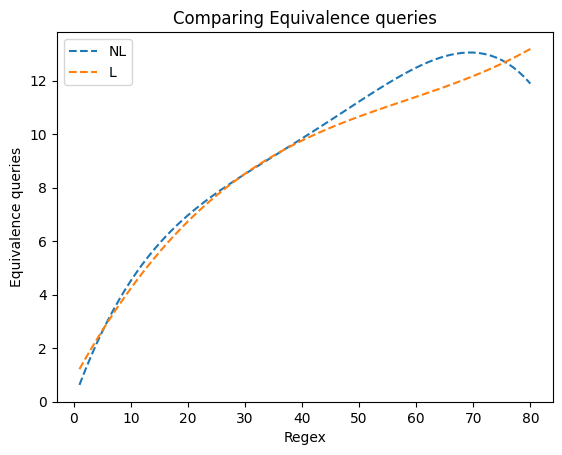
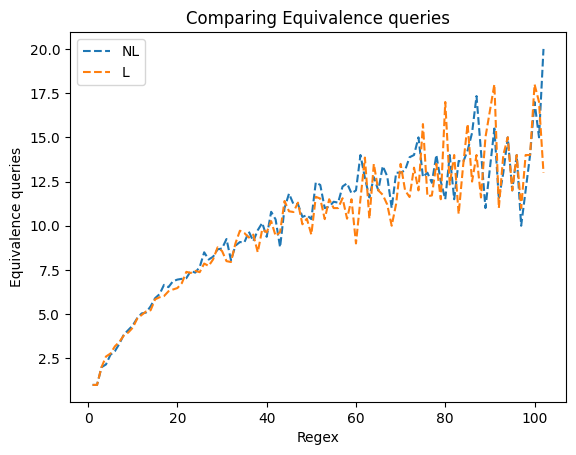
Added new benchmark

diff --git a/dist/Main.js b/dist/Main.js
@@ -1,2 +1,2 @@
-import{teachers}from"./teacher/Teacher.js";import{HTML_L_star}from"./html_interactions/HTML_L_star.js";import{HTML_NL_star}from"./html_interactions/HTML_NL_star.js";import{Automaton}from"./automaton/Automaton.js";import{L_star}from"./learners/L_star.js";import{NL_star}from"./learners/NL_star.js";import*as autFunction from"./automaton/automaton_type.js";import{TeacherAutomaton}from"./teacher/TeacherAutomaton.js";export let automatonDiv,automatonHTML,automatonDivList=[],historyHTML=[],historyPosition=0,backupCenterDiv=document.getElementById("centerDiv").cloneNode(true);export function centerDivClone(){return backupCenterDiv.cloneNode(true)}export function initiate_global_vars(){automatonHTML=$("#automaton-mermaid")[0];automatonDiv=$("#input-automaton")[0];historyHTML.push([document.getElementById("centerDiv").cloneNode(true),undefined]);document.getElementById("leftCol").onclick=goBackward;document.getElementById("rightCol").onclick=goForeward;document.onkeydown=key=>{const LEFT=37,RIGHT=39;switch(key.keyCode){case LEFT:goBackward();break;case RIGHT:goForeward();break;}};let current_automaton,teacherSelector=$("#teacher-switch")[0],algoSelector=Array.from($(".algo-switch")),mapTeacherValue={},counter=0,currentTeacher=teachers[0],newRegex=$("#input-regex")[0],newRegexSendButton=$("#button-regex")[0];let changeTeacherOrAlgo=()=>{document.getElementById("centerDiv").replaceWith(centerDivClone());current_automaton=algoSelector[0].checked?new HTML_L_star(currentTeacher):new HTML_NL_star(currentTeacher);$("#teacher_description")[0].innerHTML=current_automaton.learner.teacher.description;console.log("The description is ",current_automaton.learner.teacher.description);clearHistory()};let createRadioTeacher=teacher=>{let newTeacherHtml=document.createElement("option");newTeacherHtml.value=counter+"";newTeacherHtml.text=teacher.regex;mapTeacherValue[""+counter++]=teacher;teacherSelector.appendChild(newTeacherHtml);return newTeacherHtml};changeTeacherOrAlgo();teacherSelector.onchange=()=>{currentTeacher=mapTeacherValue[teacherSelector.selectedOptions[0].value];changeTeacherOrAlgo()};algoSelector.forEach(as=>as.onclick=()=>changeTeacherOrAlgo());teachers.forEach(teacher=>createRadioTeacher(teacher));$("#next_step")[0].addEventListener("click",()=>current_automaton.next_step());$("#go_to_end")[0].addEventListener("click",()=>current_automaton.go_to_end());newRegexSendButton.addEventListener("click",()=>{let regexAlreadyExists=Array.from($("#teacher-switch option")).find(e=>e.text==newRegex.value);let newTeacherOption;if(regexAlreadyExists){newTeacherOption=regexAlreadyExists}else{currentTeacher=new TeacherAutomaton(newRegex.value,`My automaton with regex = (${newRegex.value})`);newTeacherOption=createRadioTeacher(currentTeacher)}newTeacherOption.selected=true;changeTeacherOrAlgo()})}function toggleArrowLeft(toDisplay){if(toDisplay)document.getElementById("leftCol")?.classList.remove("hide");else document.getElementById("leftCol")?.classList.add("hide")}function toggleArrowRight(toDisplay){if(toDisplay)document.getElementById("rightCol")?.classList.remove("hide");else document.getElementById("rightCol")?.classList.add("hide")}export function addHistoryElement(automaton){historyHTML.push([document.getElementById("centerDiv").cloneNode(true),automaton]);historyPosition=historyHTML.length-1;toggleArrowRight(false);toggleArrowLeft(true)}function changeMainDivContent(){let historyHead=Array.from(historyHTML[historyPosition][0].getElementsByClassName("head"));let currentHead=Array.from(document.getElementsByClassName("head"));historyHead.forEach((e,pos)=>{if(currentHead[pos].classList.contains("up"))e.classList.add("up");else e.classList.remove("up")});document.getElementById("centerDiv").innerHTML=historyHTML[historyPosition][0].innerHTML}function clearHistory(){historyHTML=[];toggleArrowLeft(false);toggleArrowRight(false);clear_automaton_HTML()}export function goForeward(){let lengthHistory=historyHTML.length;if(historyPosition+1<lengthHistory){historyPosition++;changeMainDivContent();toggleArrowLeft(true)}else{toggleArrowRight(false)}}export function goBackward(){if(historyPosition>0){historyPosition--;changeMainDivContent();toggleArrowRight(true)}else{toggleArrowLeft(false)}}export function clear_table(){document.getElementById("table").innerHTML="";document.getElementById("table").innerHTML=""}export function clear_automaton_HTML(){document.getElementsByClassName("mermaidTooltip")[0]?.remove();document.getElementById("automatonHead")?.classList.add("up");automatonDiv.innerHTML="";automatonHTML.innerHTML=""}try{process==undefined}catch(e){window.onload=function(){initiate_global_vars()};window.Automaton=Automaton;window.teachers=teachers;window.L_star=L_star;window.NL_star=NL_star;window.autFunction=autFunction;window.automatonDivList=automatonDivList;window.historyHTML=historyHTML;window.historyPosition=historyPosition}
+import{teachers}from"./teacher/Teacher.js";import{HTML_L_star}from"./html_interactions/HTML_L_star.js";import{HTML_NL_star}from"./html_interactions/HTML_NL_star.js";import{Automaton}from"./automaton/Automaton.js";import{L_star}from"./learners/L_star.js";import{NL_star}from"./learners/NL_star.js";import*as autFunction from"./automaton/automaton_type.js";import{TeacherAutomaton}from"./teacher/TeacherAutomaton.js";export let automatonDiv,automatonHTML,automatonDivList=[],historyHTML=[],historyPosition=0,backupCenterDiv=document.getElementById("centerDiv").cloneNode(true);export function centerDivClone(){return backupCenterDiv.cloneNode(true)}export function initiate_global_vars(){automatonHTML=$("#automaton-mermaid")[0];automatonDiv=$("#input-automaton")[0];historyHTML.push([document.getElementById("centerDiv").cloneNode(true),undefined]);document.getElementById("leftCol").onclick=goBackward;document.getElementById("rightCol").onclick=goForeward;document.onkeydown=key=>{const LEFT=37,RIGHT=39;switch(key.keyCode){case LEFT:goBackward();break;case RIGHT:goForeward();break;}};let current_automaton,teacherSelector=$("#teacher-switch")[0],algoSelector=Array.from($(".algo-switch")),mapTeacherValue={},counter=0,currentTeacher=teachers[0],newRegex=$("#input-regex")[0],newRegexSendButton=$("#button-regex")[0];let changeTeacherOrAlgo=()=>{document.getElementById("centerDiv").replaceWith(centerDivClone());current_automaton=algoSelector[0].checked?new HTML_L_star(currentTeacher):new HTML_NL_star(currentTeacher);$("#teacher_description")[0].innerHTML=current_automaton.learner.teacher.description;console.log("The description is ",current_automaton.learner.teacher.description);clearHistory()};let createRadioTeacher=teacher=>{let newTeacherHtml=document.createElement("option");newTeacherHtml.value=counter+"";newTeacherHtml.text=teacher.regex;mapTeacherValue[""+counter++]=teacher;teacherSelector.appendChild(newTeacherHtml);return newTeacherHtml};changeTeacherOrAlgo();teacherSelector.onchange=()=>{currentTeacher=mapTeacherValue[teacherSelector.selectedOptions[0].value];changeTeacherOrAlgo()};algoSelector.forEach(as=>as.onclick=()=>changeTeacherOrAlgo());teachers.forEach(teacher=>createRadioTeacher(teacher));$("#next_step")[0].addEventListener("click",()=>current_automaton.next_step());$("#go_to_end")[0].addEventListener("click",()=>current_automaton.go_to_end());newRegexSendButton.addEventListener("click",()=>{let regexAlreadyExists=Array.from($("#teacher-switch option")).find(e=>e.text==newRegex.value);let newTeacherOption;if(regexAlreadyExists){newTeacherOption=regexAlreadyExists}else{currentTeacher=new TeacherAutomaton(newRegex.value,`My automaton with regex = (${newRegex.value})`);newTeacherOption=createRadioTeacher(currentTeacher)}newTeacherOption.selected=true;changeTeacherOrAlgo()})}function toggleArrowLeft(toDisplay){if(toDisplay)document.getElementById("leftCol")?.classList.remove("hide");else document.getElementById("leftCol")?.classList.add("hide")}function toggleArrowRight(toDisplay){if(toDisplay)document.getElementById("rightCol")?.classList.remove("hide");else document.getElementById("rightCol")?.classList.add("hide")}export function addHistoryElement(automaton){historyHTML.push([document.getElementById("centerDiv").cloneNode(true),automaton]);historyPosition=historyHTML.length-1;toggleArrowRight(false);toggleArrowLeft(true)}function changeMainDivContent(){let historyHead=Array.from(historyHTML[historyPosition][0].getElementsByClassName("head"));let currentHead=Array.from(document.getElementsByClassName("head"));historyHead.forEach((e,pos)=>{if(currentHead[pos].classList.contains("up"))e.classList.add("up");else e.classList.remove("up")});document.getElementById("centerDiv").innerHTML=historyHTML[historyPosition][0].innerHTML;window.automaton=historyHTML[historyPosition][1]}function clearHistory(){historyHTML=[];toggleArrowLeft(false);toggleArrowRight(false);clear_automaton_HTML()}export function goForeward(){let lengthHistory=historyHTML.length;if(historyPosition+1<lengthHistory){historyPosition++;changeMainDivContent();toggleArrowLeft(true)}else{toggleArrowRight(false)}}export function goBackward(){if(historyPosition>0){historyPosition--;changeMainDivContent();toggleArrowRight(true)}else{toggleArrowLeft(false)}}export function clear_table(){document.getElementById("table").innerHTML="";document.getElementById("table").innerHTML=""}export function clear_automaton_HTML(){document.getElementsByClassName("mermaidTooltip")[0]?.remove();document.getElementById("automatonHead")?.classList.add("up");automatonDiv.innerHTML="";automatonHTML.innerHTML=""}try{process==undefined}catch(e){window.onload=function(){initiate_global_vars()};window.Automaton=Automaton;window.teachers=teachers;window.L_star=L_star;window.NL_star=NL_star;window.autFunction=autFunction;window.automatonDivList=automatonDivList;window.historyHTML=historyHTML;window.historyPosition=historyPosition}
 //# sourceMappingURL=Main.js.map

diff --git a/dist/test_nodejs/CompareBenchMark.js b/dist/test_nodejs/CompareBenchMark.js
@@ -1,2 +1,2 @@
-import{readdirSync,readFileSync}from"fs";import{clearFile,csvHead,printCsvCompare,printInfo,writeToFile}from"./PrintFunction.js";import{TeacherTakingAut}from"../teacher/TeacherTakingAut.js";import{L_star}from"../learners/L_star.js";import{NL_star}from"../learners/NL_star.js";import{Automaton}from"../automaton/Automaton.js";let benchMark=true;let path="./statistics/"+(benchMark?"benchMark/":"automata/"),fileName=benchMark?"benchMark":"randomAutomata",files=readdirSync(path),automata=[],toWrite=true;let l=["1.5-0.1/A13.ba","1.5-0.1/A17.ba","1.5-0.1/A19.ba","1.5-0.1/A2.ba","1.5-0.1/A27.ba","1.5-0.1/A3.ba","1.5-0.1/A37.ba","1.5-0.1/A42.ba","1.5-0.1/A44.ba","1.5-0.1/A58.ba","1.5-0.1/A7.ba","1.5-0.1/A79.ba","1.5-0.1/A80.ba","1.5-0.1/A82.ba","1.5-0.1/A85.ba","1.5-0.1/A93.ba","1.5-0.1/A99.ba","1.5-0.1/B12.ba","1.5-0.1/B18.ba","1.5-0.1/B23.ba","1.5-0.1/B29.ba","1.5-0.1/B37.ba","1.5-0.1/B48.ba","1.5-0.1/B49.ba","1.5-0.1/B5.ba","1.5-0.1/B58.ba","1.5-0.1/B60.ba","1.5-0.1/B71.ba","1.5-0.1/B80.ba","1.5-0.1/B9.ba","1.5-0.2/A14.ba","1.5-0.2/A17.ba","1.5-0.2/A2.ba","1.5-0.2/A42.ba","1.5-0.2/A73.ba","1.5-0.2/A89.ba","1.5-0.2/A9.ba","1.5-0.2/B15.ba","1.5-0.2/B21.ba","1.5-0.2/B30.ba","1.5-0.2/B42.ba","1.5-0.2/B48.ba","1.5-0.2/B53.ba","1.5-0.2/B59.ba","1.5-0.2/B60.ba","1.5-0.2/B71.ba","1.5-0.2/B81.ba","1.5-0.2/B84.ba","1.5-0.2/B92.ba","1.5-0.2/B99.ba","1.5-0.3/A36.ba","1.5-0.3/A45.ba","1.5-0.3/A5.ba","1.5-0.3/A52.ba","1.5-0.3/A62.ba","1.5-0.3/A64.ba","1.5-0.3/A77.ba","1.5-0.3/A89.ba","1.5-0.3/B57.ba","1.5-0.4/A11.ba","1.5-0.4/A45.ba","1.5-0.4/A50.ba","1.5-0.4/A53.ba","1.5-0.4/A65.ba","1.5-0.4/A68.ba","1.5-0.4/A95.ba","1.5-0.4/B25.ba","1.5-0.5/A19.ba","1.5-0.5/A2.ba","1.5-0.5/A4.ba","1.5-0.5/A69.ba","1.5-0.5/A96.ba","1.5-0.5/B20.ba","1.5-0.5/B23.ba","1.5-0.5/B55.ba","1.5-0.5/B79.ba","1.5-0.5/B91.ba","1.5-0.6/A5.ba","1.5-0.6/A69.ba","1.5-0.6/B19.ba","1.5-0.6/B89.ba","1.5-0.6/B97.ba","1.5-0.7/A40.ba","1.5-0.7/A59.ba","1.5-0.7/A64.ba","1.5-0.7/A72.ba","1.5-0.7/A91.ba","1.5-0.7/B50.ba","1.5-0.7/B73.ba","1.5-0.7/B90.ba","1.5-0.8/A42.ba","1.5-0.8/A57.ba","1.5-0.8/A88.ba","1.5-0.8/B54.ba","1.5-0.9/A36.ba","1.5-0.9/A40.ba","1.5-0.9/B16.ba","1.5-0.9/B43.ba","1.5-0.9/B82.ba","1.5-1/B86.ba"];for(const underFolder of files){console.log(underFolder);let newPath=path+underFolder+"/";let files=readdirSync(newPath);for(const file of files){if(!l.includes(underFolder+"/"+file))continue;if(!file.endsWith(".ba"))continue;console.log("=".repeat(90));console.error("Creating automaton of file",underFolder+"/"+file);console.log("Creating automaton of file",underFolder+"/"+file);let content=readFileSync(newPath+file).toString();let automaton=Automaton.strToAutomaton(content);let teacher=new TeacherTakingAut({automaton:automaton,regex:underFolder+"/"+file});if(teacher.automaton.state_number()<81)continue;automata.push([teacher,underFolder+"/"+file]);teacher.description=teacher.automaton.state_number()+""}}console.log(automata.map(e=>e[1]));console.log("=".repeat(90));console.log("Automata created the ordered list of states is :");automata.sort((a,b)=>a[0].automaton.state_number()-b[0].automaton.state_number());automata.forEach(a=>console.log(a[0].automaton.state_number()));if(toWrite){clearFile(fileName);writeToFile(fileName,csvHead)}for(let index=0;index<automata.length;index++){const[teacher,file]=automata[index];let L=new L_star(teacher),NL=new NL_star(teacher);console.log("=".repeat(90));console.error(file,"Current benchmark :",index,"/",automata.length,"With state number",teacher.automaton.state_number());console.log(file,"Current benchmark :",index,"/",automata.length,"With state number",teacher.automaton.state_number());console.log("In L*");L.make_all_queries();console.log(printInfo(L,"L*"));console.log("-".repeat(80));console.log("In NL*");NL.make_all_queries();console.log(printInfo(NL,"NL*"));console.log(printCsvCompare(L,NL));if(toWrite)writeToFile(fileName,printCsvCompare(L,NL))}
+import{readdirSync,readFileSync}from"fs";import{clearFile,csvHead,printCsvCompare,printInfo,writeToFile}from"./PrintFunction.js";import{TeacherTakingAut}from"../teacher/TeacherTakingAut.js";import{L_star}from"../learners/L_star.js";import{NL_star}from"../learners/NL_star.js";import{Automaton}from"../automaton/Automaton.js";let benchMark=true;let path="./statistics/"+(benchMark?"benchMark/":"automata/"),fileName=benchMark?"benchMark":"randomAutomata",files=readdirSync(path),automata=[],toWrite=true;let l=["1.5-0.1/A13.ba","1.5-0.1/A17.ba","1.5-0.1/A19.ba","1.5-0.1/A2.ba","1.5-0.1/A37.ba","1.5-0.1/A42.ba","1.5-0.1/A44.ba","1.5-0.1/A58.ba","1.5-0.1/A7.ba","1.5-0.1/A82.ba","1.5-0.1/A85.ba","1.5-0.1/A93.ba","1.5-0.1/A99.ba","1.5-0.1/B12.ba","1.5-0.1/B18.ba","1.5-0.1/B23.ba","1.5-0.1/B37.ba","1.5-0.1/B48.ba","1.5-0.1/B49.ba","1.5-0.1/B5.ba","1.5-0.1/B58.ba","1.5-0.1/B60.ba","1.5-0.1/B71.ba","1.5-0.1/B80.ba","1.5-0.1/B9.ba","1.5-0.2/A2.ba","1.5-0.2/A42.ba","1.5-0.2/A89.ba","1.5-0.2/A9.ba","1.5-0.2/B15.ba","1.5-0.2/B30.ba","1.5-0.2/B48.ba","1.5-0.2/B53.ba","1.5-0.2/B59.ba","1.5-0.2/B71.ba","1.5-0.2/B81.ba","1.5-0.2/B92.ba","1.5-0.3/A36.ba","1.5-0.3/A5.ba","1.5-0.3/A52.ba","1.5-0.4/A50.ba","1.5-0.4/A53.ba","1.5-0.4/A65.ba","","1.5-0.5/A2.ba","1.5-0.5/A4.ba","1.5-0.5/A69.ba","1.5-0.5/A96.ba","1.5-0.5/B20.ba","1.5-0.5/B79.ba","1.5-0.5/B91.ba","1.5-0.6/A5.ba","1.5-0.6/B89.ba","1.5-0.6/B97.ba","1.5-0.7/A40.ba","1.5-0.7/A64.ba","1.5-0.7/B50.ba","1.5-0.7/B73.ba","1.5-0.8/A42.ba","1.5-0.8/A88.ba","1.5-0.8/B54.ba","1.5-0.9/A40.ba","1.5-0.9/B16.ba","1.5-1/B86.ba"];let minStateNb=102;for(const underFolder of files){console.log(underFolder);if(!l.includes(underFolder))continue;let newPath=path+underFolder+"/";let files=readdirSync(newPath);for(const file of files){if(!l.includes(underFolder+"/"+file))continue;if(!file.endsWith(".ba"))continue;console.log("=".repeat(90));console.error("Creating automaton of file",underFolder+"/"+file);console.log("Creating automaton of file",underFolder+"/"+file);let content=readFileSync(newPath+file).toString();let automaton=Automaton.strToAutomaton(content);let teacher=new TeacherTakingAut({automaton:automaton,regex:underFolder+"/"+file});if(teacher.automaton.state_number()<minStateNb)continue;automata.push([teacher,underFolder+"/"+file]);teacher.description=teacher.automaton.state_number()+""}}console.log(automata.map(e=>e[1]));console.log("=".repeat(90));console.log("Automata created the ordered list of states is :");automata.sort((a,b)=>a[0].automaton.state_number()-b[0].automaton.state_number());automata.forEach(a=>console.log(a[0].automaton.state_number()));if(toWrite){clearFile(fileName);writeToFile(fileName,csvHead)}for(let index=0;index<automata.length;index++){const[teacher,file]=automata[index];let L=new L_star(teacher),NL=new NL_star(teacher);console.log("=".repeat(90));console.error(file,"Current benchmark :",index,"/",automata.length,"With state number",teacher.automaton.state_number());console.log(file,"Current benchmark :",index,"/",automata.length,"With state number",teacher.automaton.state_number());console.error("In L*");L.make_all_queries();console.log(printInfo(L,"L*"));console.log("-".repeat(80));console.error("In NL*");NL.make_all_queries();console.log(printInfo(NL,"NL*"));console.log(printCsvCompare(L,NL));if(toWrite)writeToFile(fileName,printCsvCompare(L,NL))}
 //# sourceMappingURL=CompareBenchMark.js.map

diff --git a/dist/automaton/automaton_type.js b/dist/automaton/automaton_type.js
@@ -1,2 +1,2 @@
-import{Automaton,State}from"../automaton/Automaton.js";import{noam}from"../../public/noam.js";export function HisAutomaton2Mine(aut){let states=aut.states.map(e=>new State(e+"",aut.acceptingStates.some(x=>x+""==e+""),(typeof aut.initialState=="number"?aut.initialState+""==e+"":aut.initialState?.some(x=>x+""==e+""))||false,aut.alphabet));let statesMap=new Map,statesSet=new Set;for(const state of states){statesMap.set(state.name,state);statesSet.add(state)}for(const transition of aut.transitions){let from=transition.fromState;let symbol=transition.symbol;let to=transition.toStates;to.forEach(state=>statesMap.get(from+"")?.addTransition(symbol,statesMap.get(state+"")))}return new Automaton(statesSet)}export function MyAutomatonToHis(aut){let stateList=Array.from(aut.states).map(e=>e[1]);let state2int=state=>stateList.indexOf(state);let states=stateList.map(e=>state2int(e));let startState=states.length;let transitions=stateList.map(state=>Array.from(state.outTransitions).map(transition=>({fromState:state2int(state),symbol:transition[0],toStates:transition[1].map(e=>state2int(e))})).flat()).flat();if(aut.initialStates.length>1){transitions.push({fromState:startState,symbol:"$",toStates:aut.initialStates.map(e=>state2int(e))});states.push(startState)}else startState=state2int(aut.initialStates[0]);let res={acceptingStates:aut.acceptingStates.map(e=>state2int(e)),alphabet:Array.from(aut.alphabet),states:states,initialState:startState,transitions:transitions};return res}export function regexToAutomaton(regex){let res=noam.re.string.toAutomaton(regex);return minimizeAutomaton(res)}export function minimizeAutomaton(automatonInput){let automaton=automatonInput instanceof Automaton?MyAutomatonToHis(automatonInput):automatonInput;let log=(message,aut)=>{console.log(message,automaton.states.length);if((aut instanceof Automaton?aut.state_number():aut.states.length)>10000)console.error(message,automaton.states.length)};log("1 - Converting Enfa to NFA",automaton);automaton=noam.fsm.convertEnfaToNfa(automaton);log("2 - Converting NFA to DFA",automaton);automaton=noam.fsm.convertNfaToDfa(automaton);log("3 - Converting state to numbers ",automaton);let numToList=elt=>typeof elt=="number"?[elt]:elt;try{let statesToNumbers=HisAutomaton2Mine(noam.fsm.convertStatesToNumbers(automaton));log("4 - Minimizing automaton ",statesToNumbers);let minimized=statesToNumbers.minimize();log("5 - Minimization OK, ",minimized);return minimized}catch{throw"Error"}}export function intersectionAutomata(a1,a2){console.log("Intersection, ",a1.states.size,a2.states.size);return minimizeAutomaton(noam.fsm.intersection(MyAutomatonToHis(a1),MyAutomatonToHis(a2)))}export function unionAutomata(a1,a2){let A1=MyAutomatonToHis(a1);let A2=MyAutomatonToHis(a2);let U=noam.fsm.union(A1,A2);let res=minimizeAutomaton(U);return res}export function complementAutomata(a1){return HisAutomaton2Mine(noam.fsm.complement(MyAutomatonToHis(minimizeAutomaton(MyAutomatonToHis(a1)))))}export function differenceAutomata(a1,a2){let c=complementAutomata(a2);return intersectionAutomata(a1,c)}
+import{Automaton,State}from"../automaton/Automaton.js";import{noam}from"../../public/noam.js";export function HisAutomaton2Mine(aut){let states=aut.states.map(e=>new State(e+"",aut.acceptingStates.some(x=>x+""==e+""),(typeof aut.initialState=="number"?aut.initialState+""==e+"":aut.initialState?.some(x=>x+""==e+""))||false,aut.alphabet));let statesMap=new Map,statesSet=new Set;for(const state of states){statesMap.set(state.name,state);statesSet.add(state)}for(const transition of aut.transitions){let from=transition.fromState;let symbol=transition.symbol;let to=transition.toStates;to.forEach(state=>statesMap.get(from+"")?.addTransition(symbol,statesMap.get(state+"")))}return new Automaton(statesSet)}export function MyAutomatonToHis(aut){let stateList=Array.from(aut.states).map(e=>e[1]);let state2int=state=>stateList.indexOf(state);let states=stateList.map(e=>state2int(e));let startState=states.length;let transitions=stateList.map(state=>Array.from(state.outTransitions).map(transition=>({fromState:state2int(state),symbol:transition[0],toStates:transition[1].map(e=>state2int(e))})).flat()).flat();if(aut.initialStates.length>1){transitions.push({fromState:startState,symbol:"$",toStates:aut.initialStates.map(e=>state2int(e))});states.push(startState)}else startState=state2int(aut.initialStates[0]);let res={acceptingStates:aut.acceptingStates.map(e=>state2int(e)),alphabet:Array.from(aut.alphabet),states:states,initialState:startState,transitions:transitions};return res}export function regexToAutomaton(regex){let res=noam.re.string.toAutomaton(regex);return minimizeAutomaton(res)}export function minimizeAutomaton(automatonInput){let automaton=automatonInput instanceof Automaton?MyAutomatonToHis(automatonInput):automatonInput;let log=(message,aut)=>{console.log(message,automaton.states.length);if((aut instanceof Automaton?aut.state_number():aut.states.length)>5000)console.error(message,automaton.states.length)};log("1 - Converting Enfa to NFA",automaton);automaton=noam.fsm.convertEnfaToNfa(automaton);log("2 - Converting NFA to DFA",automaton);automaton=noam.fsm.convertNfaToDfa(automaton);log("3 - Converting state to numbers ",automaton);let numToList=elt=>typeof elt=="number"?[elt]:elt;try{let statesToNumbers=HisAutomaton2Mine(noam.fsm.convertStatesToNumbers(automaton));log("4 - Minimizing automaton ",statesToNumbers);let minimized=statesToNumbers.minimize();log("5 - Minimization OK, ",minimized);return minimized}catch{throw"Error"}}export function intersectionAutomata(a1,a2){console.log("Intersection, ",a1.states.size,a2.states.size);return minimizeAutomaton(noam.fsm.intersection(MyAutomatonToHis(a1),MyAutomatonToHis(a2)))}export function unionAutomata(a1,a2){let A1=MyAutomatonToHis(a1);let A2=MyAutomatonToHis(a2);let U=noam.fsm.union(A1,A2);let res=minimizeAutomaton(U);return res}export function complementAutomata(a1){return HisAutomaton2Mine(noam.fsm.complement(MyAutomatonToHis(minimizeAutomaton(MyAutomatonToHis(a1)))))}export function differenceAutomata(a1,a2){let c=complementAutomata(a2);return intersectionAutomata(a1,c)}
 //# sourceMappingURL=automaton_type.js.map

diff --git a/dist/teacher/Teacher.js b/dist/teacher/Teacher.js
@@ -1,7 +1,7 @@
-import{MyAutomatonToHis}from"../automaton/automaton_type.js";import{minimizeAutomaton}from"../automaton/automaton_type.js";import{Automaton,State}from"../automaton/Automaton.js";import{TeacherAutomaton}from"./TeacherAutomaton.js";import{TeacherNoAutomaton}from"./TeacherNoAutomaton.js";import{TeacherTakingAut}from"./TeacherTakingAut.js";import{allStringFromAlphabet}from"../tools/Utilities.js";export let teacher_a_or_baStar=new TeacherAutomaton("a+(ba)*");export let teacherPairZeroAndOne=new TeacherAutomaton("(00+11+(01+10)(00+11)*(01+10))*",`Automaton accepting L = {w in (0, 1)* | #(w_0) % 2 = 0 and #(w_1) % 2 = 0} <br/> → words with even nb of '0' and even nb of '1'`);export let teacherA3fromLast=new TeacherAutomaton("(a+b)*a(a+b)(a+b)",`Automaton accepting L = {w in (a, b)* | w[-3] = a} <br/>
+import{TeacherAutomaton}from"./TeacherAutomaton.js";import{TeacherNoAutomaton}from"./TeacherNoAutomaton.js";import{allStringFromAlphabet}from"../tools/Utilities.js";export let teacher_a_or_baStar=new TeacherAutomaton("a+(ba)*");export let teacherPairZeroAndOne=new TeacherAutomaton("(00+11+(01+10)(00+11)*(01+10))*",`Automaton accepting L = {w in (0, 1)* | #(w_0) % 2 = 0 and #(w_1) % 2 = 0} <br/> → words with even nb of '0' and even nb of '1'`);export let teacherA3fromLast=new TeacherAutomaton("(a+b)*a(a+b)(a+b)",`Automaton accepting L = {w in (a, b)* | w[-3] = a} <br/>
     → words with an 'a' in the 3rd pos from end`);export let teacherEvenAandThreeB=new TeacherAutomaton("b*a(b+ab*a)*+(a+b)*ba*ba*b(a+b)*",`Automaton accepting L = {w in (a, b)* | #(w_b) ≥ 3 or #(w_a) % 2 = 1}
   <br/> → words with at least 3 'b' or an odd nb of 'a'`);export let teacherNotAfourthPos=new TeacherAutomaton("((a+b)(a+b)(a+b)b)*(a+b+$)(a+b+$)(a+b+$)",`Automaton accepting L = {w ∈ (a,b)* and i ∈ 4ℕ | w[i] ≠ a and i ≤ len(w)} <br/>
-  → words without an 'a' in a position multiple of 4`);export let teacher_bStar_a_or_aStart_bStar=new TeacherNoAutomaton({alphabet:"ab",regex:"((bb*a)|(a*b*))",counter_examples:["bba","b","aabb","aba","aa","bbaa"]},`Automaton accepting L = regex((bb^*a) + (a^*b^*))`);export let teacher_b_bStar_a__b_aOrb_star=new TeacherAutomaton("bb*($+a(b(a+b))*)");export let binaryAddition=new TeacherNoAutomaton({alphabet:"012345678",regex:sentence=>{let _=`  
+  → words without an 'a' in a position multiple of 4`);export let teacher_bStar_a_or_aStart_bStar=new TeacherNoAutomaton({alphabet:"ab",regex:"((bb*a)|(a*b*))",counter_examples:["bba","b","aabb","aba","aa","bbaa"]},`Automaton accepting L = regex((bb^*a) + (a^*b^*))`);export let teacher_b_bStar_a__b_aOrb_star=new TeacherAutomaton("bb*($+a(b(a+b))*)");export let binaryAddition=new TeacherNoAutomaton({alphabet:"012345678",regex:sentence=>{let charToBin=char=>(parseInt(char)>>>0).toString(2).padStart(3,"0");let sentenceAr=Array.from(sentence).map(e=>charToBin(e));let fst_term=parseInt(sentenceAr.map(e=>e[0]).join(""),2);let snd_term=parseInt(sentenceAr.map(e=>e[1]).join(""),2);let trd_term=parseInt(sentenceAr.map(e=>e[2]).join(""),2);return fst_term+snd_term==trd_term},counter_examples:allStringFromAlphabet({alphabet:"012345678",maxLength:3})},`  
        * Automaton calculating addition between binary integers:
        * exemple : 
        * 0101 + 
@@ -10,29 +10,5 @@ import{MyAutomatonToHis}from"../automaton/automaton_type.js";import{minimizeAuto
        * is a valid exemple that can be sent to the automaton with the encoding 3516
        * 3 = 011 (the 1st col), 5 = 101 (the 2nd col), 
        * 1 = 001 (the 3rd col), 6 = 110 (the 4th col) 
-       **/ `;let charToBin=char=>(parseInt(char)>>>0).toString(2).padStart(3,"0");let sentenceAr=Array.from(sentence).map(e=>charToBin(e));let fst_term=parseInt(sentenceAr.map(e=>e[0]).join(""),2);let snd_term=parseInt(sentenceAr.map(e=>e[1]).join(""),2);let trd_term=parseInt(sentenceAr.map(e=>e[2]).join(""),2);return fst_term+snd_term==trd_term},counter_examples:allStringFromAlphabet({alphabet:"012345678",maxLength:3})});let automaton;{let n=4;let states=new Array(n).fill(0).map((_,i)=>new State(i+"",i==0,i<n/2,["a","b"]));for(let i=0;i<n-1;i++)states[i].addTransition("a",states[i+1]);states[n-1].addTransition("a",states[0]);states[0].addTransition("b",states[0]);for(let i=2;i<n;i++)states[i].addTransition("b",states[i-1]);states[1].addTransition("b",states[n-1]);automaton=minimizeAutomaton(MyAutomatonToHis(new Automaton(new Set(states))))}let badForNl=new TeacherTakingAut({automaton});let test=new TeacherTakingAut({automaton:Automaton.strToAutomaton(`[6]
-a,[0]->[1]
-b,[0]->[6]
-a,[1]->[9]
-b,[1]->[5]
-a,[2]->[3]
-b,[2]->[1]
-a,[3]->[0]
-b,[3]->[6]
-a,[4]->[1]
-b,[4]->[5]
-a,[5]->[7]
-b,[5]->[3]
-a,[6]->[4]
-b,[6]->[2]
-a,[7]->[4]
-b,[7]->[8]
-a,[8]->[10]
-b,[8]->[4]
-a,[9]->[9]
-b,[9]->[2]
-a,[10]->[8]
-b,[10]->[2]
-[0]
-[1]`),description:"Test with 5 states"});export let teachers=[test,badForNl,teacher_a_or_baStar,teacher_b_bStar_a__b_aOrb_star,binaryAddition,teacherA3fromLast,teacherEvenAandThreeB,teacherNotAfourthPos,teacherPairZeroAndOne,teacher_bStar_a_or_aStart_bStar];
+       **/ `);export let teachers=[teacher_a_or_baStar,teacher_b_bStar_a__b_aOrb_star,binaryAddition,teacherA3fromLast,teacherEvenAandThreeB,teacherNotAfourthPos,teacherPairZeroAndOne,teacher_bStar_a_or_aStart_bStar];
 //# sourceMappingURL=Teacher.js.map

diff --git a/src/test_nodejs/CompareBenchMark.ts b/src/test_nodejs/CompareBenchMark.ts
@@ -15,35 +15,31 @@ let path = ("./statistics/" + (benchMark ? "benchMark/" : "automata/")),
   toWrite = true;
 
 let l = [
-  '1.5-0.1/A13.ba', '1.5-0.1/A17.ba', '1.5-0.1/A19.ba', '1.5-0.1/A2.ba',
-  '1.5-0.1/A27.ba', '1.5-0.1/A3.ba', '1.5-0.1/A37.ba', '1.5-0.1/A42.ba',
-  '1.5-0.1/A44.ba', '1.5-0.1/A58.ba', '1.5-0.1/A7.ba', '1.5-0.1/A79.ba',
-  '1.5-0.1/A80.ba', '1.5-0.1/A82.ba', '1.5-0.1/A85.ba', '1.5-0.1/A93.ba',
-  '1.5-0.1/A99.ba', '1.5-0.1/B12.ba', '1.5-0.1/B18.ba', '1.5-0.1/B23.ba',
-  '1.5-0.1/B29.ba', '1.5-0.1/B37.ba', '1.5-0.1/B48.ba', '1.5-0.1/B49.ba',
+  '1.5-0.1/A13.ba', '1.5-0.1/A17.ba', '1.5-0.1/A19.ba', '1.5-0.1/A2.ba', '1.5-0.1/A37.ba', '1.5-0.1/A42.ba',
+  '1.5-0.1/A44.ba', '1.5-0.1/A58.ba', '1.5-0.1/A7.ba', '1.5-0.1/A82.ba', '1.5-0.1/A85.ba', '1.5-0.1/A93.ba',
+  '1.5-0.1/A99.ba', '1.5-0.1/B12.ba', '1.5-0.1/B18.ba', '1.5-0.1/B23.ba', '1.5-0.1/B37.ba', '1.5-0.1/B48.ba', '1.5-0.1/B49.ba',
   '1.5-0.1/B5.ba', '1.5-0.1/B58.ba', '1.5-0.1/B60.ba', '1.5-0.1/B71.ba',
-  '1.5-0.1/B80.ba', '1.5-0.1/B9.ba', '1.5-0.2/A14.ba', '1.5-0.2/A17.ba',
-  '1.5-0.2/A2.ba', '1.5-0.2/A42.ba', '1.5-0.2/A73.ba', '1.5-0.2/A89.ba',
-  '1.5-0.2/A9.ba', '1.5-0.2/B15.ba', '1.5-0.2/B21.ba', '1.5-0.2/B30.ba',
-  '1.5-0.2/B42.ba', '1.5-0.2/B48.ba', '1.5-0.2/B53.ba', '1.5-0.2/B59.ba',
-  '1.5-0.2/B60.ba', '1.5-0.2/B71.ba', '1.5-0.2/B81.ba', '1.5-0.2/B84.ba',
-  '1.5-0.2/B92.ba', '1.5-0.2/B99.ba', '1.5-0.3/A36.ba', '1.5-0.3/A45.ba',
-  '1.5-0.3/A5.ba', '1.5-0.3/A52.ba', '1.5-0.3/A62.ba', '1.5-0.3/A64.ba',
-  '1.5-0.3/A77.ba', '1.5-0.3/A89.ba', '1.5-0.3/B57.ba', '1.5-0.4/A11.ba',
-  '1.5-0.4/A45.ba', '1.5-0.4/A50.ba', '1.5-0.4/A53.ba', '1.5-0.4/A65.ba',
-  '1.5-0.4/A68.ba', '1.5-0.4/A95.ba', '1.5-0.4/B25.ba', '1.5-0.5/A19.ba',
+  '1.5-0.1/B80.ba', '1.5-0.1/B9.ba',
+  '1.5-0.2/A2.ba', '1.5-0.2/A42.ba', '1.5-0.2/A89.ba',
+  '1.5-0.2/A9.ba', '1.5-0.2/B15.ba', '1.5-0.2/B30.ba', '1.5-0.2/B48.ba', '1.5-0.2/B53.ba', '1.5-0.2/B59.ba',
+  '1.5-0.2/B71.ba', '1.5-0.2/B81.ba',
+  '1.5-0.2/B92.ba', '1.5-0.3/A36.ba',
+  '1.5-0.3/A5.ba', '1.5-0.3/A52.ba', '1.5-0.4/A50.ba', '1.5-0.4/A53.ba', '1.5-0.4/A65.ba', '',
   '1.5-0.5/A2.ba', '1.5-0.5/A4.ba', '1.5-0.5/A69.ba', '1.5-0.5/A96.ba',
-  '1.5-0.5/B20.ba', '1.5-0.5/B23.ba', '1.5-0.5/B55.ba', '1.5-0.5/B79.ba',
-  '1.5-0.5/B91.ba', '1.5-0.6/A5.ba', '1.5-0.6/A69.ba', '1.5-0.6/B19.ba',
-  '1.5-0.6/B89.ba', '1.5-0.6/B97.ba', '1.5-0.7/A40.ba', '1.5-0.7/A59.ba',
-  '1.5-0.7/A64.ba', '1.5-0.7/A72.ba', '1.5-0.7/A91.ba', '1.5-0.7/B50.ba',
-  '1.5-0.7/B73.ba', '1.5-0.7/B90.ba', '1.5-0.8/A42.ba', '1.5-0.8/A57.ba',
-  '1.5-0.8/A88.ba', '1.5-0.8/B54.ba', '1.5-0.9/A36.ba', '1.5-0.9/A40.ba',
-  '1.5-0.9/B16.ba', '1.5-0.9/B43.ba', '1.5-0.9/B82.ba', '1.5-1/B86.ba'
+  '1.5-0.5/B20.ba', '1.5-0.5/B79.ba',
+  '1.5-0.5/B91.ba', '1.5-0.6/A5.ba',
+  '1.5-0.6/B89.ba', '1.5-0.6/B97.ba', '1.5-0.7/A40.ba',
+  '1.5-0.7/A64.ba', '1.5-0.7/B50.ba',
+  '1.5-0.7/B73.ba', '1.5-0.8/A42.ba',
+  '1.5-0.8/A88.ba', '1.5-0.8/B54.ba', '1.5-0.9/A40.ba',
+  '1.5-0.9/B16.ba', '1.5-1/B86.ba'
 ];
+
+let minStateNb = 102;
 
 for (const underFolder of files) {
   console.log(underFolder);
+  if (!l.includes(underFolder)) continue;
   // if (Number.parseInt(underFolder) < 0 || Number.parseInt(underFolder) > 24) continue;
   // if (!underFolder.startsWith("1.5-0.1")) break
   let newPath = path + underFolder + "/";
@@ -57,7 +53,7 @@ for (const underFolder of files) {
     let content = readFileSync(newPath + file).toString();
     let automaton = Automaton.strToAutomaton(content);
     let teacher = new TeacherTakingAut({ automaton: automaton, regex: underFolder + "/" + file })
-    if (teacher.automaton.state_number() < 81) continue
+    if (teacher.automaton.state_number() < minStateNb) continue
     automata.push([teacher, underFolder + "/" + file]);
     teacher.description = teacher.automaton.state_number() + ""
   }
@@ -87,12 +83,12 @@ for (let index = 0; index < automata.length; index++) {
   console.error(file, "Current benchmark :", index, "/", automata.length, "With state number", teacher.automaton!.state_number());
   console.log(file, "Current benchmark :", index, "/", automata.length, "With state number", teacher.automaton!.state_number());
 
-  console.log("In L*");
+  console.error("In L*");
 
   L.make_all_queries();
   console.log(printInfo(L, "L*"));
   console.log("-".repeat(80));
-  console.log("In NL*");
+  console.error("In NL*");
   NL.make_all_queries();
   console.log(printInfo(NL, "NL*"));
 

diff --git a/src/Main.ts b/src/Main.ts
@@ -124,6 +124,7 @@ function changeMainDivContent() {
     else e.classList.remove('up');
   })
   document.getElementById('centerDiv')!.innerHTML = historyHTML[historyPosition][0].innerHTML;
+  window.automaton = historyHTML[historyPosition][1];
 }
 
 function clearHistory() {
@@ -176,7 +177,7 @@ declare global {
     automatonDivList: [Automaton, Node][];
     historyHTML: [Node, Automaton?][];
     historyPosition: number;
-    automaton: Automaton;
+    automaton: Automaton | undefined;
   }
 }
 

diff --git a/src/automaton/automaton_type.ts b/src/automaton/automaton_type.ts
@@ -87,7 +87,7 @@ export function minimizeAutomaton(automatonInput: HisAutomaton | Automaton): Aut
 
   let log = (message: string, aut: HisAutomaton | Automaton) => {
     console.log(message, automaton.states.length);
-    if ((aut instanceof Automaton ? aut.state_number() : aut.states.length) > 10000)
+    if ((aut instanceof Automaton ? aut.state_number() : aut.states.length) > 5000)
       console.error(message, automaton.states.length);
   }
 

diff --git a/statistics/pythonPlotter/csvToPlot.py b/statistics/pythonPlotter/csvToPlot.py
@@ -7,6 +7,21 @@ import numpy as np
 
 folderPrefix = ["statistics/", "../"][0]
 plotFolder = "plots/"
+trendGraphic = False
+
+
+def objective(x, a, b, c, d, f):
+    return (a * x) + (b * x**2) + (c * x**3) + (d * x**4) + f
+
+
+def amortizeCurve(x, y):
+    if trendGraphic:
+        popt, _ = curve_fit(objective, x, y)
+        a, b, c, d, f = popt
+        x_line = np.arange(min(x), max(x), 1)
+        y_line = objective(x_line, a, b, c, d, f)
+        return x_line, y_line
+    return x, y
 
 
 def savePlot(plot: plt, path: str):
@@ -29,13 +44,8 @@ def plotCsv(df: pd.DataFrame, comparator: str, algos: str, fileName: str):
     fig, ax = plt.subplots()
     ax.set_title(f'Comparing {comparator}')
     for i in algos:
-        def objective(x, a, b, c, d, f):
-            return (a * x) + (b * x**2) + (c * x**3) + (d * x**4) + f
         x, y = df['Description'], df[f"{i} {comparator}"]
-        popt, _ = curve_fit(objective, x, y)
-        a, b, c, d, f = popt
-        x_line = np.arange(min(x), max(x), 1)
-        y_line = objective(x_line, a, b, c, d,  f)
+        x_line, y_line = amortizeCurve(x, y)
         print(f"{i} {comparator} {fileName}")
         ax.plot(x_line, y_line, '--', label=i)
     leg = ax.legend()
